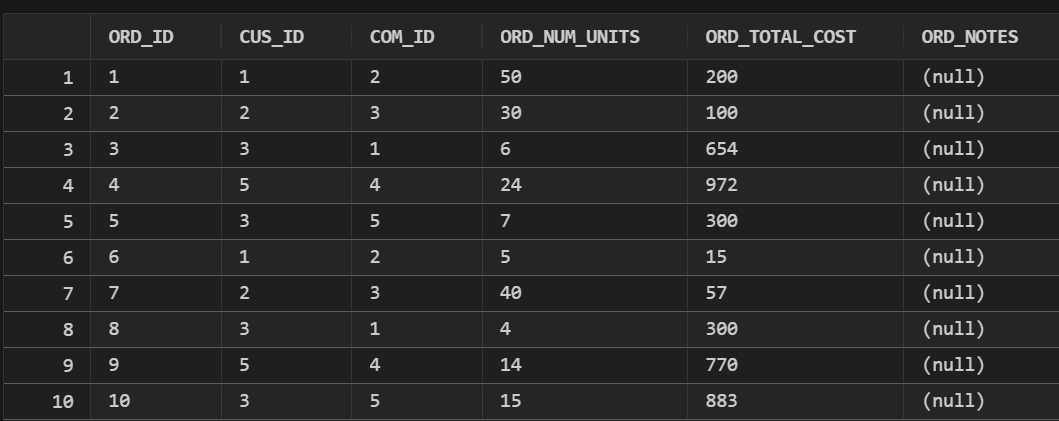
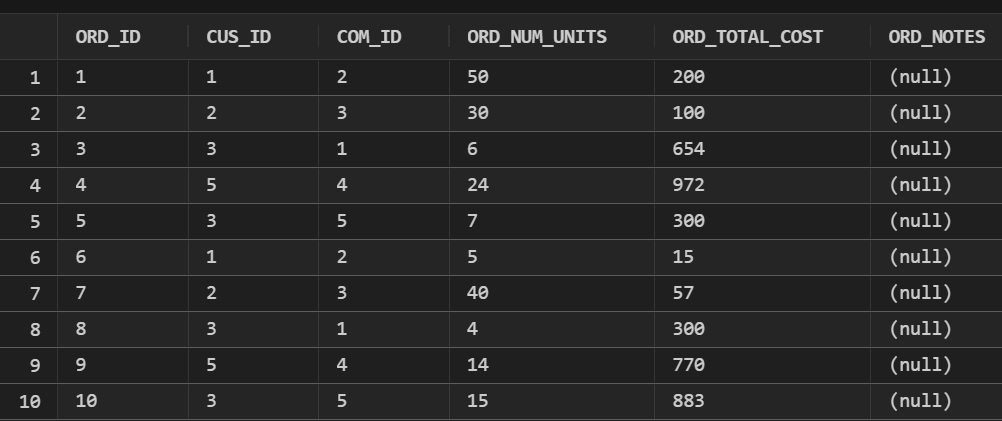
Assignment #3 update sreenshots

diff --git a/a3/README.md b/a3/README.md
@@ -18,7 +18,7 @@
 * Screenshot of one report
 * Sql solution [lis3781_a3_solutions.sql](lis3781_a3_solutions.sql "lis3781_a3_solutions.sql Link")
 
-#### Assignment Screenshots (Note: **BE SURE** to modify for specific course!):
+#### Assignment Screenshots:
 
 *Screenshot of sql for table creation*:
 
@@ -26,9 +26,15 @@
 
 *Screenshot of populated tables*:
 
+*Customer Table*:
+
 ![Screenshot of customer populated tables](img/customer.png)
 
-![Screenshot of commodity populated tables](img/commidity.png)
+*Commodity Table*:
+
+![Screenshot of commodity populated tables](img/commodity.png)
+
+*Oder Table*:
 
 ![Screenshot of order populated tables](img/order.png)
 
